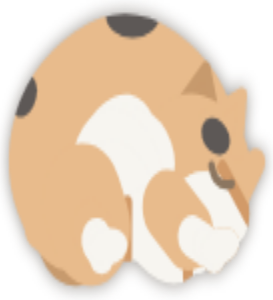
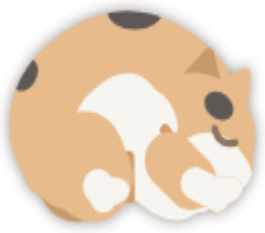
Fix stretched cat art and rewrite the custom cats page plainly
The artwork setup sat the cat low in the window, so it looked up and
stretched its neck. Cats are now rendered the way they sit on a page.
Examples show the cats standing. Shorter, plainer copy on the site and
in the Ko-fi text.

diff --git a/docs/custom.html b/docs/custom.html
@@ -3,7 +3,7 @@
 <head>
 <meta charset="utf-8">
 <meta name="viewport" content="width=device-width, initial-scale=1">
-<title>Get a custom cat · Page Cat</title>
+<title>Custom cats · Page Cat</title>
 <meta name="description" content="Send a photo of your cat and get a Page Cat that looks like them.">
 <link rel="icon" href="icon.png">
 <style>
@@ -42,6 +42,7 @@
   .ex .pic { height: 160px; display: flex; align-items: flex-end; justify-content: center; background: var(--stage); border-radius: 10px; padding-top: 10px; border-bottom: 3px solid #e2d3bd; }
   .ex img { max-height: 150px; max-width: 100%; }
   .ex b { display: block; margin-top: 8px; }
+  .ex .pic img { max-width: 88%; }
   .ex span { font-size: 14px; color: var(--muted); }
   details { border-top: 1px solid var(--line); padding: 12px 0; }
   details:last-of-type { border-bottom: 1px solid var(--line); }
@@ -56,45 +57,46 @@
 <main>
   <a class="top" href="./"><img src="icon.png" alt="">Page Cat</a>
 
-  <h1>Your cat, on every website</h1>
-  <p class="lede">Send a photo of your cat and I'll make a Page Cat with their colors and markings: the white socks, the smudge on the nose, the one dark patch on their back.</p>
+  <h1>Custom cats</h1>
+  <p class="lede">Send me a photo of your cat and I'll make a Page Cat that looks like them.</p>
   <a class="order" id="order" href="#" aria-disabled="true">Orders open soon</a>
-  <p class="small">$3 for one cat. Usually ready within 3 days.</p>
+  <p class="small">Most orders are done within 3 days.</p>
 
   <div class="parade" aria-hidden="true">
-    <img src="cats/moe-sit.png" alt="" style="width:13%">
-    <img src="cats/linda-walk.png" alt="" style="width:20%">
-    <img src="cats/boba-sleep.png" alt="" style="width:13%">
+    <img src="cats/boba-sit.png" alt="" style="width:14%">
+    <img src="cats/moe-walk.png" alt="" style="width:22%">
+    <img src="cats/linda-sleep.png" alt="" style="width:13%">
   </div>
 
   <h2>How it works</h2>
   <ol class="steps">
-    <li><b>Order and send a photo.</b> A clear picture from the side works best, plus one of the face if they have markings there. Tell me their name.</li>
-    <li><b>I make your cat.</b> I match their coat, patches, stripes and eye color, and check them sitting, walking and napping.</li>
-    <li><b>You get a cat code.</b> Open Page Cat from the toolbar, paste the code under <i>Your cats</i>, and press Import. Your cat moves in right away.</li>
+    <li>Order on Ko-fi. Send a photo of your cat from the side and tell me their name.</li>
+    <li>I make your cat and send you a code.</li>
+    <li>In the Page Cat menu, paste the code under <i>Your cats</i> and click Import.</li>
   </ol>
 
   <h2>Prices</h2>
   <div class="prices">
-    <div class="price"><b>$3</b><span>one cat</span></div>
-    <div class="price"><b>$4</b><span>two cats</span></div>
-    <div class="price"><b>$5</b><span>three cats</span></div>
+    <div class="price"><b>$3</b><span>1 cat</span></div>
+    <div class="price"><b>$4</b><span>2 cats</span></div>
+    <div class="price"><b>$5</b><span>3 cats</span></div>
   </div>
 
-  <h2>Made from real cats</h2>
+  <h2>Examples</h2>
+  <p>These are my cats.</p>
   <div class="examples">
-    <div class="ex"><div class="pic"><img src="cats/boba-sit.png" alt="Boba: a black cat with a white chest and white toes"></div><b>Boba</b><span>Black, white locket and toes</span></div>
-    <div class="ex"><div class="pic"><img src="cats/moe-sit.png" alt="Moe: a brown tabby with a white bib and white paws"></div><b>Moe</b><span>Brown tabby with white</span></div>
-    <div class="ex"><div class="pic"><img src="cats/linda-sit.png" alt="Linda: a pale orange and white cat with a few gray patches"></div><b>Linda</b><span>Pale calico</span></div>
+    <div class="ex"><div class="pic"><img src="cats/boba-stand.png" alt="Boba, a black cat with a white chest and white toes"></div><b>Boba</b></div>
+    <div class="ex"><div class="pic"><img src="cats/moe-stand.png" alt="Moe, a brown tabby with a white chest and white paws"></div><b>Moe</b></div>
+    <div class="ex"><div class="pic"><img src="cats/linda-stand.png" alt="Linda, a pale orange and white cat with gray patches"></div><b>Linda</b></div>
   </div>
 
   <h2>Questions</h2>
-  <details><summary>What do I need to install?</summary><p>Just Page Cat from the Chrome Web Store. Your cat comes as a code you paste into it, so there's nothing else to download.</p></details>
-  <details><summary>Will my cat be on my other computers?</summary><p>Yes, if you're signed in to Chrome with sync on. Your cats are saved to your Google account along with your other Page Cat settings.</p></details>
-  <details><summary>Can I change their name or size later?</summary><p>Yes. Rename them in the Page Cat menu, and set their size and chonkiness with the sliders. Each of your cats remembers its own.</p></details>
-  <details><summary>What if it doesn't look like my cat?</summary><p>Tell me what's off and I'll fix it. One round of changes is included. If I can't get it right, you get your money back.</p></details>
-  <details><summary>What happens to my photos?</summary><p>I only use them to make your cat, and I delete them once you have your code. Page Cat itself never sees them and doesn't collect any data.</p></details>
-  <details><summary>Can I share my code?</summary><p>Sure. Anyone who pastes it gets your cat.</p></details>
+  <details><summary>Do I need anything besides Page Cat?</summary><p>No. The code goes straight into the extension.</p></details>
+  <details><summary>Will my cat show up on my other computers?</summary><p>Yes, if Chrome sync is on.</p></details>
+  <details><summary>Can I rename my cat or change its size?</summary><p>Yes, from the Page Cat menu.</p></details>
+  <details><summary>What if it doesn't look right?</summary><p>Tell me what to change. If I can't get it right, I'll refund you.</p></details>
+  <details><summary>What happens to my photos?</summary><p>I delete them after I send your code.</p></details>
+  <details><summary>Can I share my code?</summary><p>Yes. Anyone with the code can add your cat.</p></details>
 
   <div class="cta"><a class="order" id="order2" href="#" aria-disabled="true">Orders open soon</a></div>
 
@@ -105,7 +107,7 @@
   const KOFI = '';
   if (KOFI) for (const id of ['order', 'order2']) {
     const a = document.getElementById(id);
-    a.href = KOFI; a.textContent = 'Order your cat'; a.removeAttribute('aria-disabled');
+    a.href = KOFI; a.textContent = 'Order on Ko-fi'; a.removeAttribute('aria-disabled');
   }
 </script>
 </body>

diff --git a/page-cat/test/test-page.html b/page-cat/test/test-page.html
@@ -105,7 +105,8 @@
       for (const el of document.querySelectorAll('header, main, .help')) el.remove();
       document.documentElement.style.background = document.body.style.background = 'transparent';
       const ground = document.createElement('div');
-      ground.style.cssText = 'position:fixed;left:0;right:0;bottom:0;height:60px';
+      // near the top, like a heading: low in the window the cat looks up and stretches its neck
+      ground.style.cssText = 'position:fixed;left:0;right:0;top:260px;height:60px';
       document.body.appendChild(ground);
       const pose = q.get('pose') || 'sit';
       d.placeOn(ground, pose === 'walk' ? 0.25 : 0.5, pose === 'walk' ? 'idle' : pose, pose === 'walk' ? 0.01 : 99);

diff --git a/docs/index.html b/docs/index.html
@@ -13,6 +13,6 @@ img{width:96px;height:96px} .muted{color:#76685c}
 <h1>Page Cat</h1>
 <p class="muted">A little cat that lives on the websites you visit. It walks, naps, scratches, and sometimes chases your mouse.</p>
 <p>Page Cat is a Chrome extension. It collects nothing and makes no network requests.</p>
-<p><a href="custom.html">Get a custom cat that looks like yours</a></p>
+<p><a href="custom.html">Custom cats</a></p>
 <p><a href="privacy.html">Privacy policy</a></p>
 </main></body></html>

diff --git a/page-cat/store/kofi/KOFI.md b/page-cat/store/kofi/KOFI.md
@@ -12,7 +12,7 @@ Files are in `store/kofi/`. Text is ready to paste; edit freely.
 
 **About / bio:**
 
-> I make Page Cat, a Chrome extension that puts a little cat on the websites you visit. Send me a photo of your cat and I'll make a Page Cat that looks like them.
+> I make Page Cat, a Chrome extension that puts a small cat on the websites you visit. I also make custom cats that look like yours.
 
 ## 2. Getting paid (keep your name private)
 - Connect **Stripe** and/or **PayPal** under Settings → Payments.
@@ -32,23 +32,18 @@ Slots cap how many open orders you can have; raise them once you know how long o
 
 **Description (same for all three, change the count):**
 
-> A Page Cat that looks like your cat, with their coat, markings and eye color.
+> A Page Cat that looks like your cat.
 >
-> After you order, send me:
-> - A clear photo of each cat from the side
-> - A photo of the face if they have markings there
-> - Each cat's name
+> After you order, send me a photo of each cat from the side and tell me their names. I'll send you a code, usually within 3 days. In the Page Cat menu, paste the code under "Your cats" and click Import.
 >
-> I'll send you a cat code within 3 days. Open Page Cat from your toolbar, paste the code under "Your cats", and press Import. One round of changes is included, and if I can't get it right you get your money back.
+> If it doesn't look right, tell me what to change. If I can't get it right, I'll refund you. I delete your photos after I send your code.
 >
-> I only use your photos to make your cat and delete them once you have your code.
->
-> You need the free Page Cat extension for Chrome: https://small-hours-studio.github.io/page-cat/
+> Get Page Cat for Chrome: https://small-hours-studio.github.io/page-cat/
 
 If Ko-fi lets buyers attach files to a commission request, ask for the photos there. If it doesn't, add: "Reply to your order confirmation with the photos."
 
 ## 4. Hook it up
-Send me your Ko-fi link. I'll put it in `docs/custom.html` (the `KOFI` line near the bottom), which turns the "Orders open soon" buttons into "Order your cat". The button in the extension goes to that page, so the Ko-fi link can change later without an extension update.
+Send me your Ko-fi link. I'll put it in `docs/custom.html` (the `KOFI` line near the bottom), which turns the "Orders open soon" buttons into "Order on Ko-fi". The button in the extension goes to that page, so the Ko-fi link can change later without an extension update.
 
 ## 5. Handling an order
 1. Save the photos somewhere private (not the repo).
